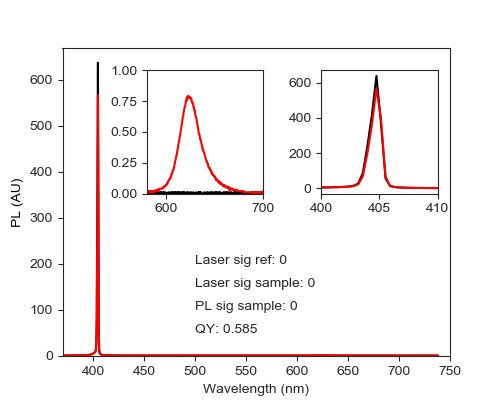
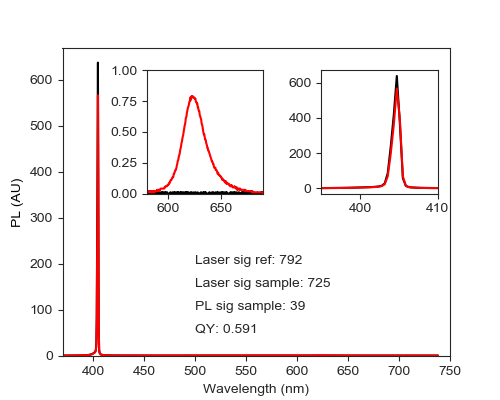
small updates

diff --git a/gridtest.py b/gridtest.py
@@ -62,7 +62,7 @@ l3 = tk.Label(frame2, text = "Laser low").grid(row=1,column=0)
 v1 = tk.StringVar()
 e3 = tk.Entry(frame2)
 e3.grid(row=1,column=2)
-e3.insert(0,"400")
+e3.insert(0,"395")
 l4 = tk.Label(frame2, text = "Laser high").grid(row=1,column=4)
 e4 = tk.Entry(frame2)
 e4.grid(row=1,column=5)
@@ -126,17 +126,17 @@ def add_plot():
     
     for i in data1:
         if lbound_low<i[0]<lbound_high:
-            laser_signal_ref+=i[1]-bckgdcounts
+            laser_signal_ref+=i[1]*i[0]/1000
         elif fbound_low<i[0]<fbound_high:
-            fluor_signal_ref+=i[1]-bckgdcounts
-        
+            fluor_signal_ref+=i[1]*i[0]/1000
+            
     for i in data2:
         if lbound_low<i[0]<lbound_high:
-            laser_signal_sample+=i[1]-bckgdcounts
+            laser_signal_sample+=i[1]*i[0]/1000
         elif fbound_low<i[0]<fbound_high:
-            fluor_signal_sample+=i[1]-bckgdcounts
+            fluor_signal_sample+=i[1]*i[0]/1000
     
-    QY=fluor_signal_sample/(laser_signal_ref-laser_signal_sample)*620/405
+    QY=fluor_signal_sample/(laser_signal_ref-laser_signal_sample)
 
     a.plot(data1[:,0],data1[:,1]-bckgdcounts,color='black')
     a.plot(data2[:,0],data2[:,1]-bckgdcounts,color='red')

diff --git a/backend.py b/backend.py
@@ -36,18 +36,20 @@ fbound_high=700
 
 for i in data1:
     if lbound_low<i[0]<lbound_high:
-        laser_signal_ref+=i[1]-bckgdcounts
+        laser_signal_ref+=i[1]*i[0]/1000
     elif fbound_low<i[0]<fbound_high:
-        fluor_signal_ref+=i[1]-bckgdcounts
+        fluor_signal_ref+=i[1]*i[0]/1000
         
 for i in data2:
     if lbound_low<i[0]<lbound_high:
-        laser_signal_sample+=i[1]-bckgdcounts
+        laser_signal_sample+=i[1]*i[0]/1000
     elif fbound_low<i[0]<fbound_high:
-        fluor_signal_sample+=i[1]-bckgdcounts
+        fluor_signal_sample+=i[1]*i[0]/1000
     
-QY=fluor_signal_sample/(laser_signal_ref-laser_signal_sample)*620/405
+QY=fluor_signal_sample/(laser_signal_ref-laser_signal_sample)
 
+print(fluor_signal_sample)
+print(QY)
 #fig, ax = plt.subplots()
 #
 #plt.plot(data1[:,0],data1[:,1]-bckgdcounts,color='black')
